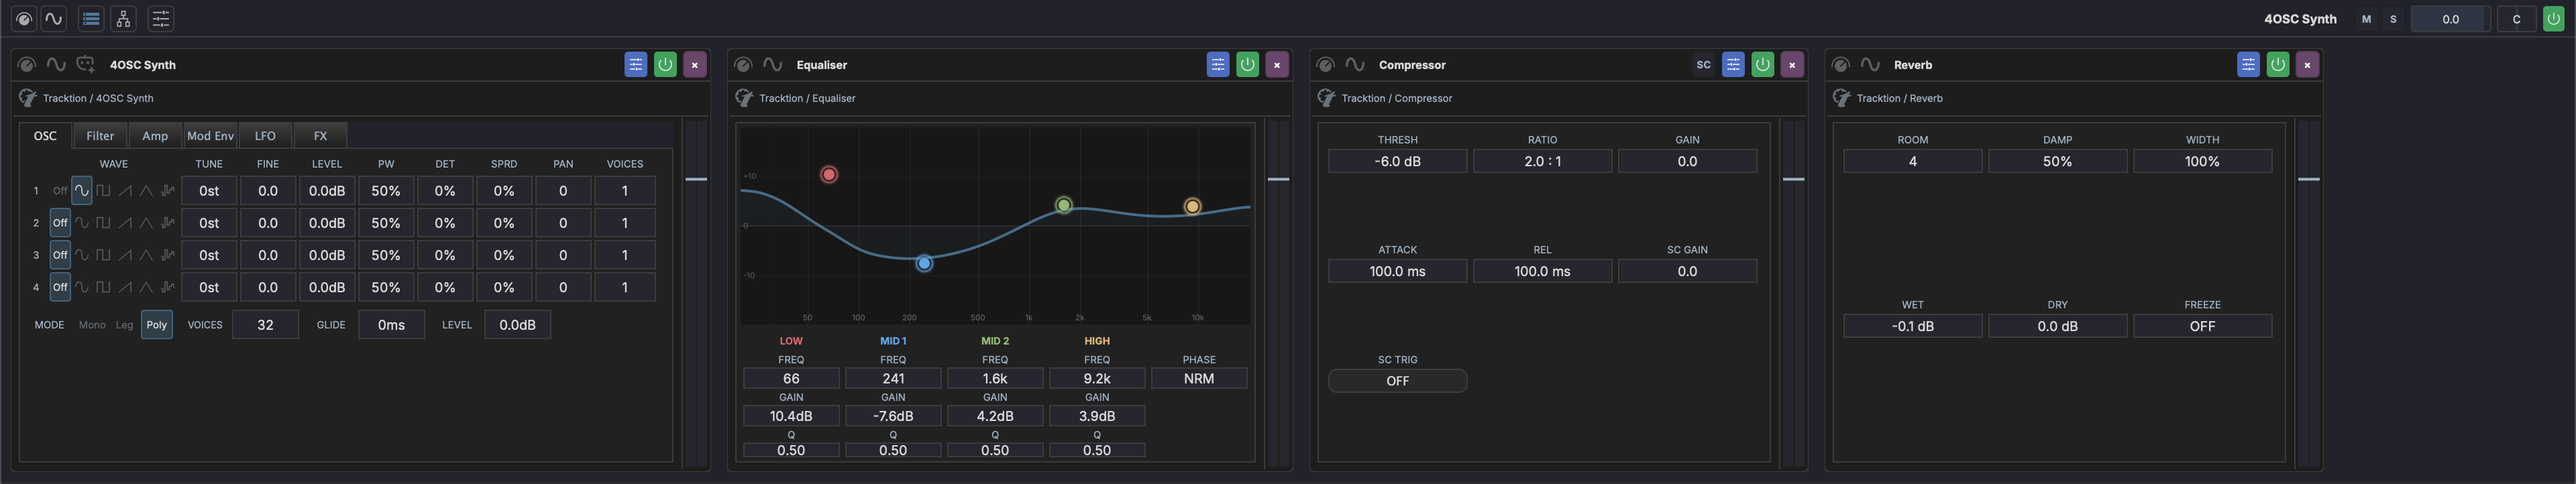
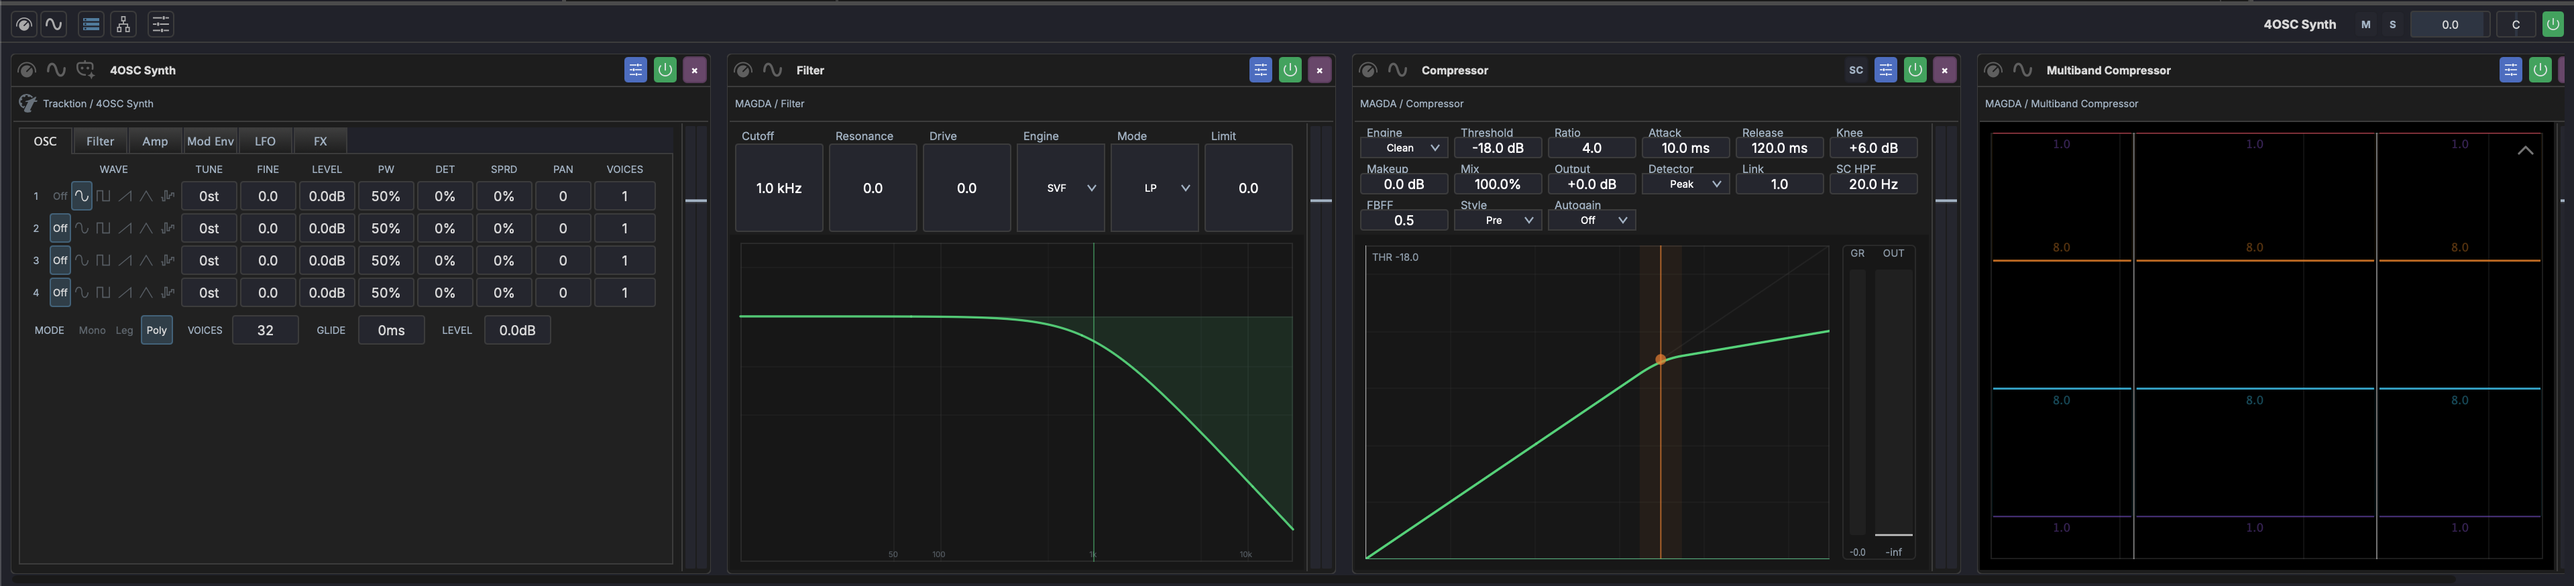
Manual: document dev/0.8.0 changes
- Effects page: split MAGDA FX bank out of built-in.md into its own
  effects.md, grouped by category, with descriptions sourced from each
  device spec. Adds the prototype Faust custom-DSP device with
  interpreter / CPU caveat.
- Clips: shift+drag pencil to draw a clip of variable length, cmd+click
  rubber to delete; Session clip follow actions (Play Next / Previous /
  Random / Stop / Play Again with Follow Delay and Loops).
- Editors: same pencil / rubber gestures in the Piano Roll, plus the
  long-note drawing behaviour. Stale "Click to add a note" line replaced.
- Inspector: audio clip section rewritten for the beats-first model;
  Session Launch & Follow group added.
- Nav: Devices grouped by MIDI / Instruments / Effects to match content.
- track-chain.png refreshed with a 4OSC plus FX-bank chain.

diff --git a/manual/docs/devices/effects.md b/manual/docs/devices/effects.md
@@ -1,0 +1,82 @@
+# Effects (MAGDA FX Bank)
+
+The MAGDA FX bank is a set of native effects compiled from Faust DSP and shipped with every MAGDA installation. They appear in the Plugin Browser under the **MAGDA** vendor and can be dragged onto any track's FX chain.
+
+## Dynamics
+
+| Device | Description |
+|--------|-------------|
+| **Compressor** | Two engines. **Clean**: feedforward with peak/RMS detection, soft knee, stereo link, sidechain HPF, external audio sidechain, parallel mix, output safety limiting. **Glue**: Brouns FBFF compressor with Detector (Peak/RMS), Style (Pre/Post), and FBFF blend. |
+| **Multiband Compressor** | OTT-style 3-band compressor. LR4 crossover split, two OTT stages in series per band, symmetric expander, per-band brickwall limiter, editable crossover frequencies and per-band thresholds in the curve editor. |
+| **Limiter** | Sanfilippo lookahead brickwall limiter. 5 ms lookahead, peak-holder, tau-smoothed attack / release. Threshold sets the output ceiling in dB. |
+| **Clipper** | Antialiased multi-mode clipper with five ADAA curves: Hard (brickwall), Soft (quadratic), Tanh (tube-style), Hyperbolic, and Sine. Drive pushes input into the curve, Output trims after. |
+| **Gate** | Stereo-linked gate / downward expander with range, timing (attack / hold / release), mix, and output gain. |
+
+## EQ & Filter
+
+| Device | Description |
+|--------|-------------|
+| **EQ** | 8-band parametric EQ. Each band selectable between HP, Low Shelf, Bell, High Shelf, LP, and Notch. |
+| **Filter** | Six-model multimode filter. **SVF**: clean 2-pole LP/BP/HP/Notch. **Ladder**: 4-pole low-pass with driven resonance. **Korg 35**: MS-style LP/HP with analog bite. **Oberheim**: SEM-style LP/BP/HP/Notch. **Sallen-Key**: smooth 2nd-order LP/BP/HP. **Diode**: resonant 4-pole diode ladder with input drive. |
+
+## Reverb & Space
+
+| Device | Description |
+|--------|-------------|
+| **Reverb** | Three engines. **Plate**: Dattorro diffusion network. **Hall**: Zita 8-tap FDN. **Room**: Freeverb Schroeder/Moorer network. |
+| **Dimension** | Stereo widener with three engines. **Dimension**: Roland Dimension D-style anti-phase modulated delays. **Haas**: short fixed delay on one channel. **M/S**: pure side-channel gain, no time smear. |
+
+## Delay
+
+| Device | Description |
+|--------|-------------|
+| **Delay** | Stereo delay with sync (or free time), tone, feedback, and crossfeed. |
+| **Grain Delay** | Granular delay for smeared repeats, pitch motion, and texture. |
+
+## Modulation
+
+| Device | Description |
+|--------|-------------|
+| **Chorus** | Stereo chorus with 1-3 modulated voices per channel. Free-Hz or tempo-synced rate, depth, feedback, mix, stereo width. |
+| **Flanger** | Stereo flanger with short modulated delay, heavy feedback for the classic comb-sweep, and sync- or free-rate LFO. |
+| **Phaser** | Phaser with selectable stage count, feedback, and sweep window. |
+| **Mod** | Tremolo / vibrato / auto-pan sharing one LFO. Free-Hz or tempo-synced; sine, triangle, square, or sample-and-hold shape. |
+| **Ring Mod** | Stereo ring modulator. Sine, triangle, or square carrier from 1 Hz (tremolo) to 5 kHz (metallic clang). Sync- or free-rate. |
+| **Freq Shift** | Stereo single-sideband frequency shifter. Hilbert-pair Bode design. Fixed-Hz offset, feedback for resonant artefacts, Spread for stereo width. |
+
+## Distortion
+
+| Device | Description |
+|--------|-------------|
+| **Saturator** | Waveshaper with drive, mode, bias, tone, mix, and output. |
+| **Grit** | Bit-depth and sample-rate reduction. |
+| **Bitcrusher** | Lo-fi bitcrusher. Rate (sample-rate reduction), Bits (bit depth), Drive (quantization landing point), Tone (post-crush low-pass). |
+
+## Pitch
+
+| Device | Description |
+|--------|-------------|
+| **Pitch** | Three engines, all using `ef.transpose`. **Shifter**: single voice, +/-24 semitones. **Detuner**: two voices hard-panned L/R for chorus-style thickening. **Harmonizer**: shifted voice summed with dry at a chosen interval. |
+
+## Utility
+
+| Device | Description |
+|--------|-------------|
+| **Utility** | Gain, pan, stereo width, mono sum, low-frequency mono, and per-channel polarity flip. |
+
+!!! note
+    Devices that bundle multiple engines (Compressor, Reverb, Dimension, Filter, Pitch) expose an engine selector at the top of the editor and switch DSP in place. Macros and modulator links survive the switch.
+
+## Faust (Custom DSP)
+
+The **Faust** device hosts a [Faust](https://faust.grame.fr) DSP that you compile and load at runtime. Unlike the rest of the MAGDA FX bank, where each device wraps a fixed pre-compiled `.dsp` source, this device accepts any Faust program.
+
+- **Folder icon** - load a `.dsp` file from disk. The source is compiled by the libfaust interpreter and swapped in immediately.
+- **Script icon** - opens an in-app code editor for live editing. Saving recompiles and hot-swaps the DSP.
+- The current script name is shown in the header banner ("Drive" in the example).
+- Arrows in the header step through parameter pages when the DSP exposes more controls than fit on one screen.
+
+Parameters live in a stable pool of slots that persist across recompiles, so macro links, modulator routings, MIDI Learn assignments, and automation lanes survive a code change as long as the slot ordering is preserved. This makes the device practical for iterative DSP development without losing your patch state on every save.
+
+!!! warning "Prototype"
+    This device is still a prototype. The DSP is run through the **libfaust interpreter** rather than ahead-of-time-compiled native code, so CPU usage is significantly higher than the pre-compiled MAGDA FX bank. Use it for sketching and experimentation; for production work, ask for the patch to be promoted into a compiled device.

diff --git a/manual/docs/clips.md b/manual/docs/clips.md
@@ -48,20 +48,34 @@ Because MAGDA uses a [hybrid track system](tracks.md#hybrid-track-system), any t
 
 ## Session Clip Properties
 
-Both MIDI and audio clips in Session View have additional launch properties:
+Both MIDI and audio clips in Session View have additional launch and follow properties:
 
 | Property | Description |
 |----------|-------------|
 | **Launch Mode** | Trigger (one-shot) or Toggle (on/off) |
 | **Launch Quantize** | Quantize launch timing (None, 8 Bars, 4 Bars, 2 Bars, 1 Bar, 1/2, 1/4, 1/8, 1/16) |
+| **Follow Action** | What happens when the clip finishes: None, Play Next, Play Previous, Play Random, Stop, or Play Again |
+| **Follow Delay** | Delay in beats before the follow action fires (0 - 64 beats, 0.25-beat resolution) |
+| **Follow Loops** | Number of times the clip loops before the follow action fires |
 
 !!! note
-    Session clips do not have an absolute position property — they are not placed on the timeline. Their position is determined by the scene slot they occupy.
+    Session clips do not have an absolute position property; they are not placed on the timeline. Their position is determined by the scene slot they occupy.
+
+### Follow Actions
+
+Follow actions chain session clips together for generative arrangement. Once the clip has played the configured number of loops (plus any follow delay), the chosen action fires:
+
+- **Play Next** triggers the next slot in the same track column
+- **Play Previous** triggers the previous slot in the same track column
+- **Play Random** triggers another slot in the same track column at random
+- **Play Again** retriggers the current clip
+- **Stop** stops session playback
 
 ## Creating Clips
 
 - **Double-click** an empty area on a track to create a new 1-bar MIDI clip at that position
 - **Double-click** over a time selection to create a MIDI clip matching the selection length
+- ++shift++ **+ drag** on an empty track lane to draw a MIDI clip of variable length. The drag distance sets the clip length (snapped to the current grid). Acts as a pencil tool.
 
 ## Selecting Clips
 
@@ -76,6 +90,7 @@ Both MIDI and audio clips in Session View have additional launch properties:
 - **Duplicate** — Hold ++alt++ and drag a clip, or press ++cmd+d++
 - **Split** — Position the playhead and use **Edit > Split Clip** or press ++cmd+e++
 - **Delete** — Select the clip and press ++delete++ or ++backspace++
+- **Erase under cursor** — ++cmd++ **+ click** a clip to delete it directly without selecting first. If the clip is part of a multi-selection, the whole group is erased. Acts as a rubber tool.
 
 ## Cut, Copy, and Paste
 

diff --git a/manual/docs/panels/inspector.md b/manual/docs/panels/inspector.md
@@ -19,22 +19,32 @@ Displayed when a track is selected. Shows:
 
 Displayed when a clip is selected. Shows:
 
-- **Clip name** — Click to rename
-- **Clip color** — Click the color swatch to choose a custom color
-- **Position** — Start time, end time, and phase offset on the timeline
-- **Loop settings** — Loop on/off, loop start, loop length
+- **Clip name** - Click to rename
+- **Clip color** - Click the color swatch to choose a custom color
+- **Position** - Start, end, and length on the timeline (beats)
+- **Loop settings** - Loop on/off, loop start, loop end, phase / offset (beats)
 
 ### Audio Properties
 
-For audio clips, the inspector shows additional controls:
+For audio clips, the inspector shows additional controls. Position and loop fields are expressed in **beats** rather than seconds; the only seconds value in the clip model is the source file's on-disk duration, shown as a read-only reference.
 
-- **Warp / Beat** — Toggle time-stretch mode; select algorithm (e.g. SoundTouch HQ)
-- **Tempo** — Source BPM and beat length detection
-- **Transient Detection** — Sensitivity slider for transient markers
-- **Pitch** — Transpose in semitones
-- **Mix** — Volume, pan, and gain controls
-- **Reverse** — Reverse the clip audio
-- **Launch Quantize** — Quantize setting for Session View clip launching
+- **Playback** - Source BPM (editable), total beats, and Auto Tempo toggle. With Auto Tempo on, the clip stretches so its beat count stays fixed as the project tempo changes; with it off, the clip plays at its native sample rate
+- **Warp** - Enable per-segment time-stretching via warp markers
+- **Transient Detection** - Sensitivity slider for transient markers
+- **Pitch** - Transpose in semitones; Auto-Pitch mode (Off, Pitch Track, Chord Mono, Chord Poly); Analog Pitch toggle for resampling instead of time-stretch
+- **Mix** - Volume, gain, pan, and reverse
+- **Channels** - Channel routing for stereo / mono interpretation
+- **Fades** - In / out length and curve
+
+### Session Launch & Follow
+
+When a clip lives in Session View, the inspector adds:
+
+- **Launch Mode** - Trigger (one-shot) or Toggle
+- **Launch Quantize** - Bar / beat snap for launch timing
+- **Follow Action** - Action when the clip ends: None, Play Next, Play Previous, Play Random, Stop, Play Again
+- **Follow Delay (beats)** - Delay between the clip ending and the follow action firing (0 - 64 beats)
+- **Follow Loops** - Number of loops the clip plays before the follow action fires
 
 ## Note Inspector
 

diff --git a/manual/docs/devices/built-in.md b/manual/docs/devices/built-in.md
@@ -1,6 +1,6 @@
 # Built-in Devices
 
-MAGDA includes its own custom devices as well as processors from the Tracktion Engine.
+MAGDA ships with its own native MIDI devices, instruments, and effects. All built-in devices are managed through the same rack wrapper layer that hosts third-party plugins, so macros, modulators, and presets behave identically across the device set.
 
 ## MIDI Devices
 
@@ -20,27 +20,13 @@ MAGDA includes its own custom devices as well as processors from the Tracktion E
 
 ## Effects
 
-These processors are provided by the Tracktion Engine and are available in every MAGDA installation:
-
-| Device | Description |
-|--------|-------------|
-| **EQ** | Parametric equalizer |
-| **Compressor** | Dynamics compressor |
-| **Reverb** | Algorithmic reverb |
-| **Delay** | Tempo-synced delay |
-| **Chorus** | Chorus/ensemble effect |
-| **Phaser** | Phaser effect |
-| **Filter** | Multimode filter (low-pass, high-pass, band-pass) |
-| **Pitch Shift** | Real-time pitch shifting |
-| **IR Reverb** | Convolution reverb using impulse responses |
-| **Utility** | Gain, phase invert, stereo width |
-| **Test Tone** | Signal generator for testing and calibration |
+The MAGDA FX bank is a set of native effects compiled from Faust DSP and shipped with every MAGDA installation. See [Effects](effects.md) for the full list, grouped by category.
 
 ## External Plugins
 
 In addition to built-in devices, MAGDA supports external plugins in the following formats:
 
-- **VST3** — Cross-platform
-- **Audio Units (AU)** — macOS only
+- **VST3** - Cross-platform
+- **Audio Units (AU)** - macOS only
 
 Use the [Plugin Browser](../panels/browsers.md) to find and add plugins to your tracks.

diff --git a/manual/docs/panels/editors.md b/manual/docs/panels/editors.md
@@ -10,9 +10,11 @@ Displayed when a MIDI clip is selected. Provides a grid for editing notes:
 
 - **Horizontal axis** — Time (bars and beats)
 - **Vertical axis** — Pitch (MIDI note numbers, with piano keyboard on the left)
-- **Click** to add a note
+- **Double-click** an empty cell to add a default-length note at that position and pitch
+- ++shift++ **+ drag** on empty grid to draw a note of variable length. The drag distance sets the note length. Acts as a pencil tool.
 - **Drag** a note to move it in time or pitch
 - **Drag edges** to resize note length
+- ++cmd++ **+ click** a note to delete it directly. If the note is part of a multi-selection, the whole group is erased. Acts as a rubber tool.
 - **Velocity lane** at the bottom for editing note velocities
 
 !!! note "Header controls"
